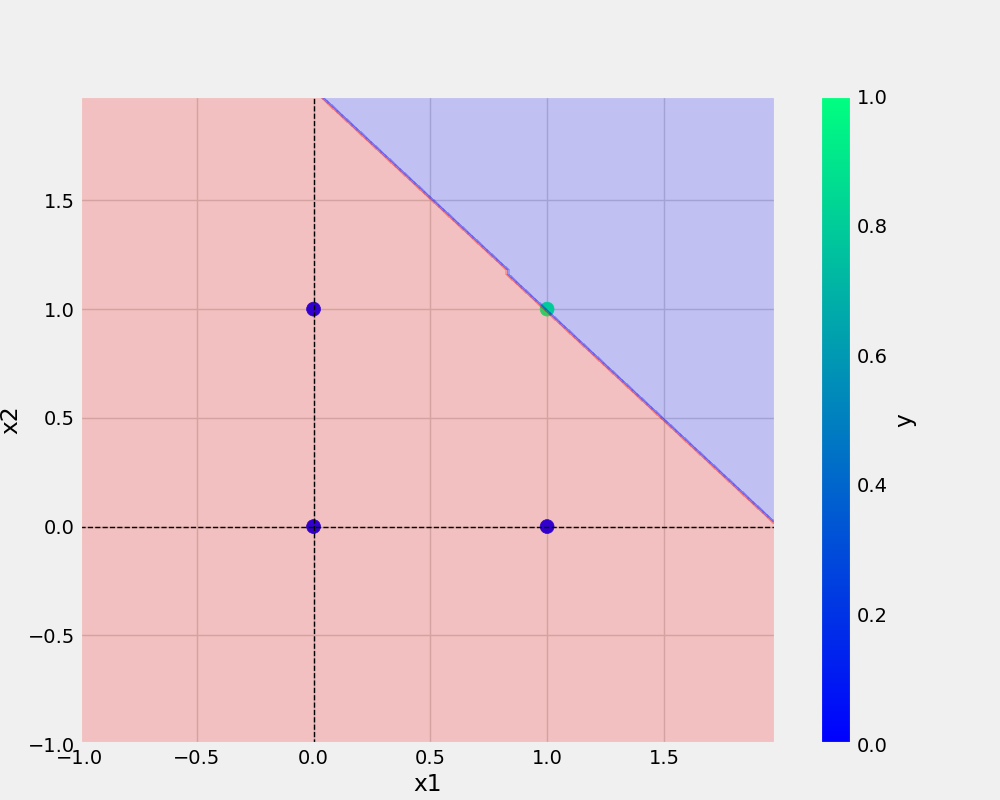
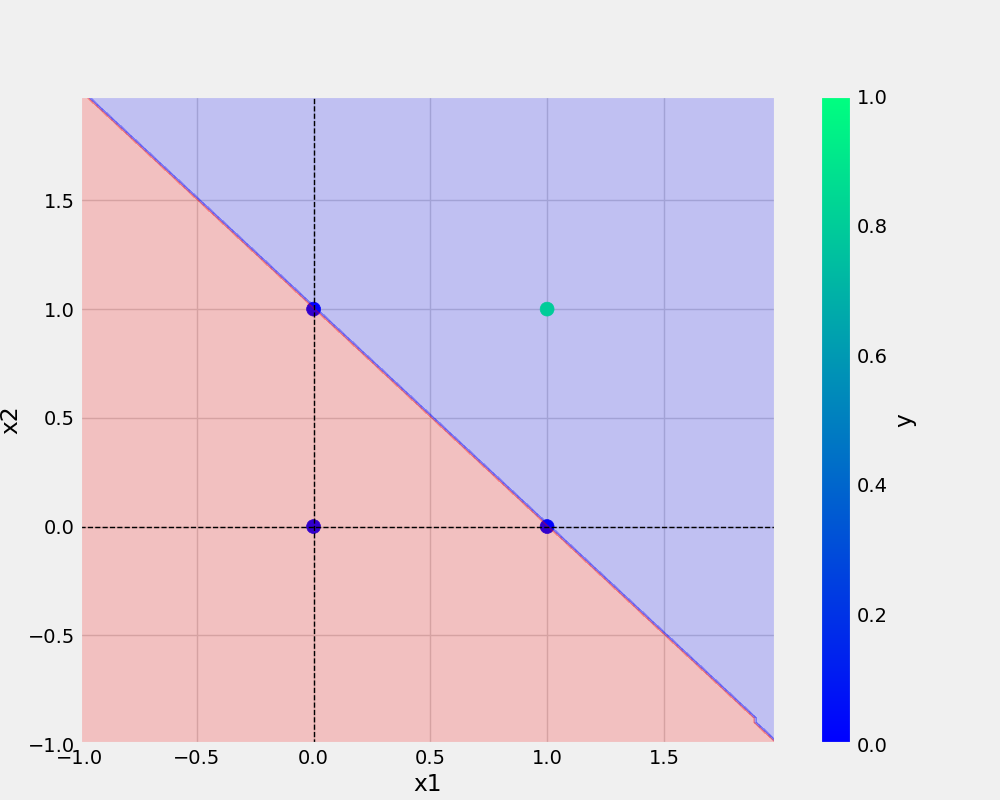
code organised and OR completed

Changed region(s): [[0.093, 0.125, 0.775, 0.9375]]

diff --git a/and.py b/and.py
@@ -3,24 +3,21 @@ from utils.all_utils import prepare_data,save_model,save_plot
 import pandas as pd
 import numpy as np
 
+def main(data,eta,epochs,filename,plot_filename): 
+    df = pd.DataFrame(data)
+    X,y = prepare_data(df)
+    model = Perceptron(eta=eta, epochs=epochs)
+    model.fit(X, y)
+    _ = model.total_loss()
+    save_model(model,filename=filename)
+    save_plot(df,plot_filename,model)
 
-AND = {
-    "x1": [0,0,1,1],
-    "x2": [0,1,0,1],
-    "y": [0,0,0,1],
-}
-
-df = pd.DataFrame(AND)
-
-X,y = prepare_data(df)
-
-ETA = 0.3 # 0 and 1
-EPOCHS = 10
-
-model = Perceptron(eta=ETA, epochs=EPOCHS)
-model.fit(X, y)
-
-_ = model.total_loss()
-
-save_model(model,filename="and.model")
-save_plot(df,"and.png",model)
+if __name__ == "__main__":
+    AND = {
+        "x1": [0,0,1,1],
+        "x2": [0,1,0,1],
+        "y": [0,0,0,1],
+    }
+    ETA = 0.3 # 0 and 1
+    EPOCHS = 10
+    main(AND,ETA,EPOCHS,"and.model","and.png")

diff --git a/or.py b/or.py
@@ -1,0 +1,23 @@
+from utils.model import Perceptron
+from utils.all_utils import prepare_data,save_model,save_plot
+import pandas as pd
+import numpy as np
+
+def main(data,eta,epochs,filename,plot_filename): 
+    df = pd.DataFrame(data)
+    X,y = prepare_data(df)
+    model = Perceptron(eta=eta, epochs=epochs)
+    model.fit(X, y)
+    _ = model.total_loss()
+    save_model(model,filename=filename)
+    save_plot(df,plot_filename,model)
+
+if __name__ == "__main__":
+    OR = {
+        "x1": [0,0,1,1],
+        "x2": [0,1,0,1],
+        "y": [0,1,1,1],
+    }
+    ETA = 0.3 # 0 and 1
+    EPOCHS = 10
+    main(OR,ETA,EPOCHS,"or.model","or.png")
